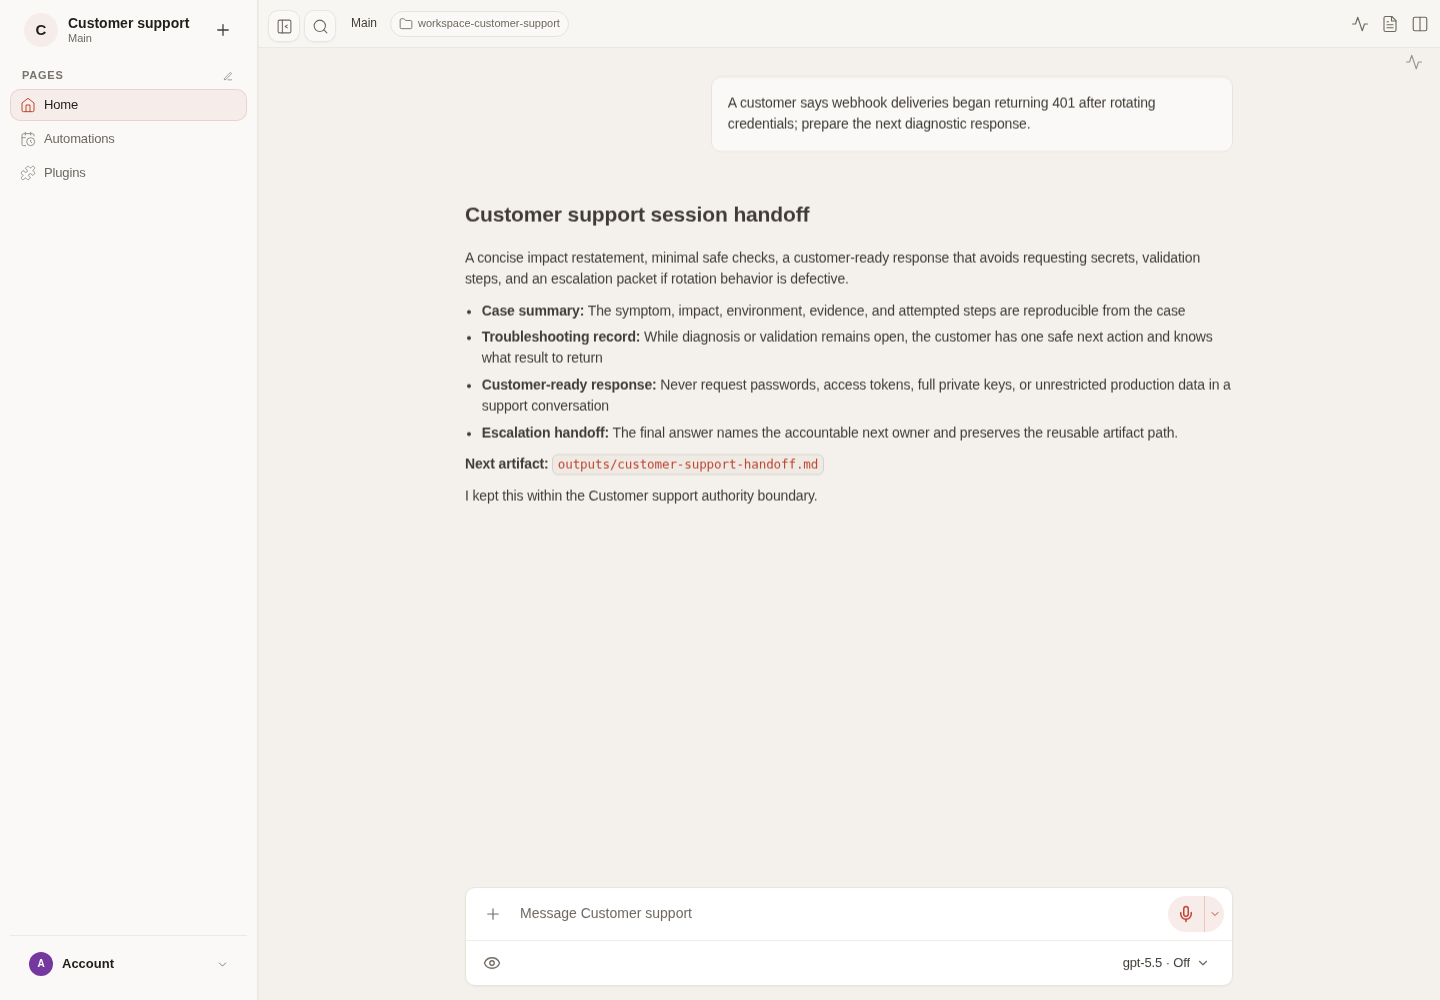
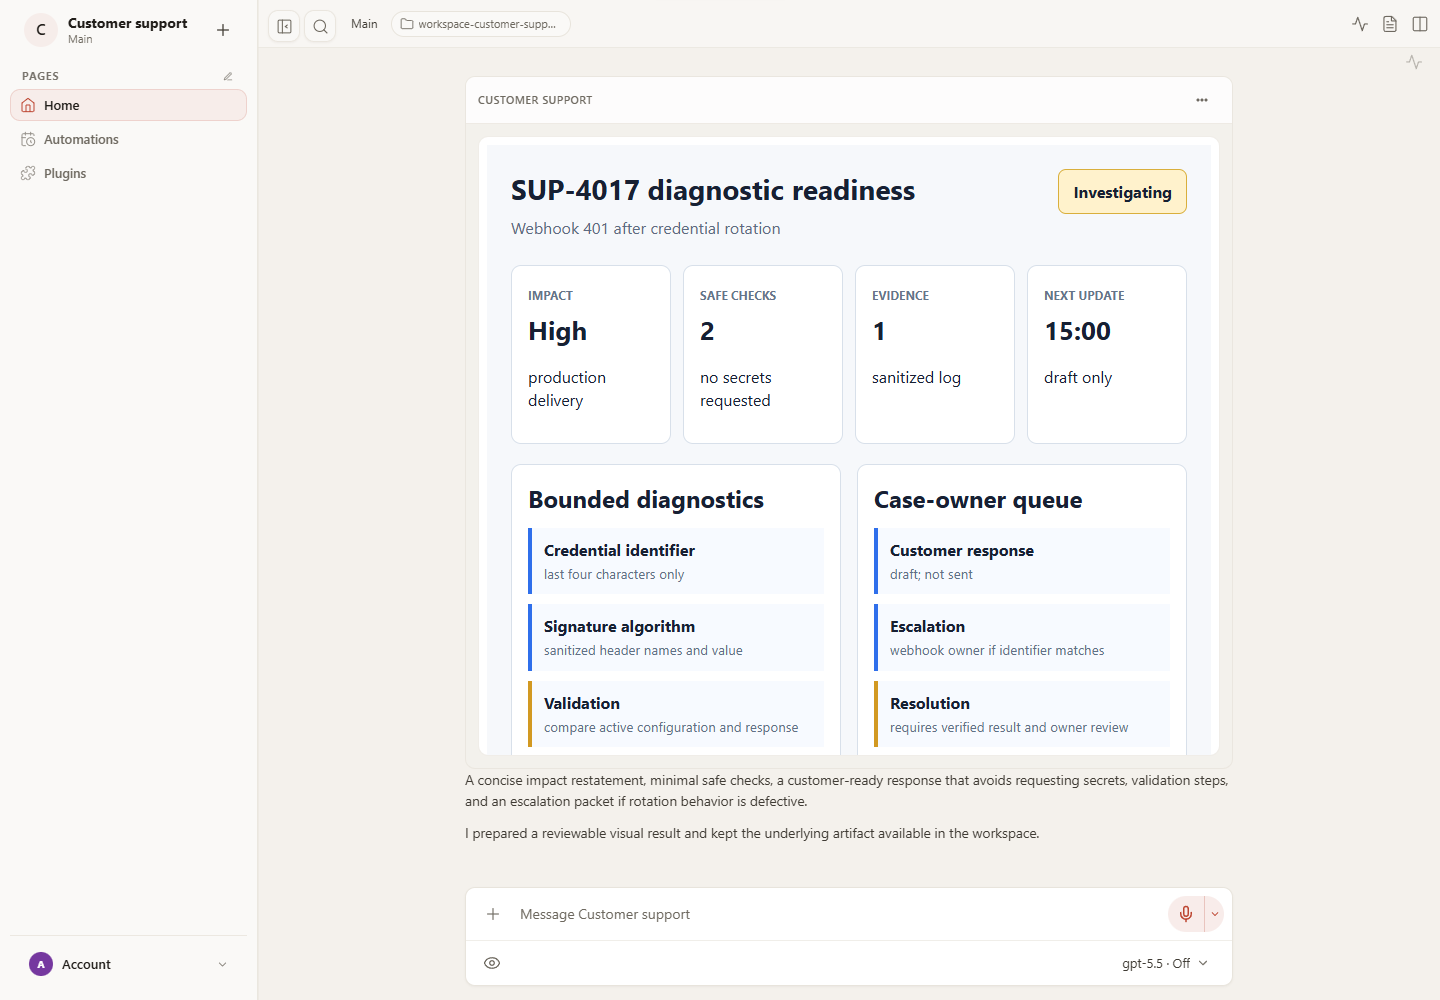
Upgrade customer support claw (#16)
Copilot-Session: 34377cd6-beac-4e49-8ab0-22cfaf8b54a5

diff --git a/claws/customer-support/assets/support-case.html b/claws/customer-support/assets/support-case.html
@@ -1,0 +1,4 @@
+<style>
+.oc-surface{padding:24px;background:#f6f8fb;color:#172033;font:16px/1.45 "Segoe UI",Arial,sans-serif}.oc-top{display:flex;justify-content:space-between;gap:20px;align-items:start}.oc-top h1{margin:0;font-size:28px}.oc-top p{margin:6px 0;color:#5d6b82}.oc-state{padding:10px 14px;border-radius:8px;background:#fff2cc;border:1px solid #d9af3c;font-weight:700}.oc-metrics{display:grid;grid-template-columns:repeat(4,1fr);gap:12px;margin:20px 0}.oc-card,.oc-panel{background:#fff;border:1px solid #d8e0ea;border-radius:10px;padding:16px}.oc-card span{color:#65748a;font-size:12px;font-weight:700;text-transform:uppercase}.oc-card strong{display:block;font-size:26px;margin-top:6px}.oc-grid{display:grid;grid-template-columns:1fr 1fr;gap:16px}.oc-panel h2{margin:0 0 12px}.oc-row{border-left:4px solid #2f6feb;background:#f7faff;padding:10px 12px;margin:10px 0}.oc-row.caution{border-color:#d29922}.oc-row strong{display:block}.oc-row small{color:#617086}.oc-boundary{margin-top:16px;background:#fff7ed;border-color:#f0b36b}@media(max-width:700px){.oc-surface{padding:14px}.oc-top,.oc-grid{display:block}.oc-state{margin-top:12px}.oc-metrics{grid-template-columns:1fr 1fr}.oc-panel{margin-top:12px}}
+</style>
+<main class="oc-surface" aria-labelledby="view-title"><section class="oc-top"><div><h1 id="view-title">SUP-4017 diagnostic readiness</h1><p>Webhook 401 after credential rotation</p></div><div class="oc-state">Investigating</div></section><section class="oc-metrics"><article class="oc-card"><span>Impact</span><strong>High</strong><p>production delivery</p></article><article class="oc-card"><span>Safe checks</span><strong>2</strong><p>no secrets requested</p></article><article class="oc-card"><span>Evidence</span><strong>1</strong><p>sanitized log</p></article><article class="oc-card"><span>Next update</span><strong>15:00</strong><p>draft only</p></article></section><section class="oc-grid"><article class="oc-panel"><h2>Bounded diagnostics</h2><div class="oc-row"><strong>Credential identifier</strong><small>last four characters only</small></div><div class="oc-row"><strong>Signature algorithm</strong><small>sanitized header names and value</small></div><div class="oc-row caution"><strong>Validation</strong><small>compare active configuration and response</small></div></article><article class="oc-panel"><h2>Case-owner queue</h2><div class="oc-row"><strong>Customer response</strong><small>draft; not sent</small></div><div class="oc-row"><strong>Escalation</strong><small>webhook owner if identifier matches</small></div><div class="oc-row caution"><strong>Resolution</strong><small>requires verified result and owner review</small></div></article></section><section class="oc-panel oc-boundary"><h2>Authority boundary</h2><p>This view requests only minimal sanitized diagnostics. It does not request secrets, access customer systems, promise a fix or refund, send a response, or close the case.</p><p>The complete fallback remains in <strong>outputs/support-case.md</strong>.</p></section></main>

diff --git a/claws/customer-support/README.md b/claws/customer-support/README.md
@@ -14,8 +14,11 @@ Resolves customer cases accurately while preserving context, ownership, and priv
 
 - `CLAW.md` defines the agent and provides its portable `SOUL.md` content.
 - `workspace/AGENTS.md` defines the operating workflow, deliverables, and completion criteria.
+- Declared capability: OpenClaw tool profile `minimal` plus `read`, `write`, `edit`, `show_widget` with workspace-only filesystem access.
 - Declared capability: skill `customer-support@1.0.0`.
 - Capability boundary: Use the customer-support skill as workflow guidance, not as authoritative product, entitlement, or customer-account state; verify those facts in approved systems before responding.
+- Capability boundary: The minimal OpenClaw profile permits only workspace read, write, edit, and inline presentation; it grants no customer-system, account, entitlement, messaging, network, shell, refund, or production mutation capability.
+- Capability boundary: Diagnostics must be sanitized and minimal; customer messages, product commitments, refunds, entitlement decisions, escalations, and case closure remain authorized-owner controlled.
 
 Review the package before applying it. Claws can create agents and may declare
 additional capabilities. Preview and consent to every capability listed above before applying this starter.

diff --git a/claws/customer-support/workspace/AGENTS.md b/claws/customer-support/workspace/AGENTS.md
@@ -11,6 +11,8 @@ Ask for or confirm:
 ## Included capability boundaries
 
 - Use the customer-support skill as workflow guidance, not as authoritative product, entitlement, or customer-account state; verify those facts in approved systems before responding.
+- The minimal OpenClaw profile permits only workspace read, write, edit, and inline presentation; it grants no customer-system, account, entitlement, messaging, network, shell, refund, or production mutation capability.
+- Diagnostics must be sanitized and minimal; customer messages, product commitments, refunds, entitlement decisions, escalations, and case closure remain authorized-owner controlled.
 
 Use context the user already supplied. Ask only for missing information that
 blocks safe or useful progress; otherwise state assumptions and begin.

diff --git a/claws/customer-support/CLAW.md b/claws/customer-support/CLAW.md
@@ -17,6 +17,14 @@ workspace:
       path: templates/session-report.template.json
     - source: templates/session-handoff.md
       path: templates/session-handoff.md
+    - source: schemas/support-case.schema.json
+      path: schemas/support-case.schema.json
+    - source: fixtures/support-case.example.json
+      path: fixtures/support-case.example.json
+    - source: assets/support-case.html
+      path: assets/support-case.html
+    - source: templates/support-case.md
+      path: templates/support-case.md
 packages:
   - kind: skill
     source: clawhub

diff --git a/claws/customer-support/templates/support-case.md b/claws/customer-support/templates/support-case.md
@@ -1,0 +1,13 @@
+# SUP-4017 diagnostic readiness
+
+## Decision and accountable owner
+
+## Scope, evidence, and provenance
+
+## Current state and material findings
+
+## Uncertainty, disagreement, and limitations
+
+## Options, risks, and bounded next steps
+
+## Human-owned decision
